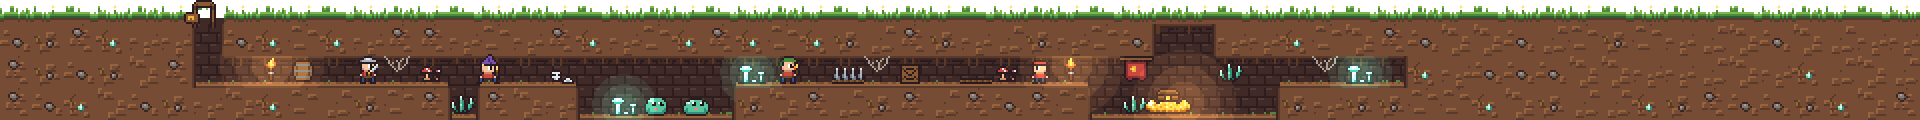
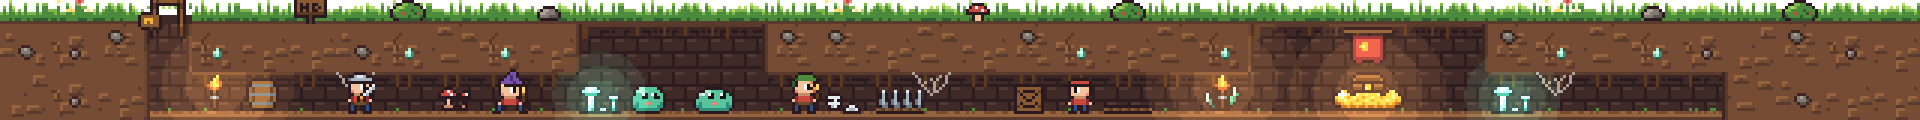
Daan: Het Hol kunst v3 op schaal 3 (strook 120 px = maaiveld 8 + twee rijen), maaiveldversiering, vergelijkingsbeeld met Rusty's Retirement
Claude-Session: https://claude.ai/code/session_01RMWUyjkHpK4foYx2s2kMsm

diff --git a/ontwerp/steam/kunst-bron/maak_kunst.py b/ontwerp/steam/kunst-bron/maak_kunst.py
@@ -1,6 +1,6 @@
 # Daan: tekent de pixelkunst van Het Hol in code (geen beeldgenerator).
 # Uitvoer: producten/steam-hol/godot/kunst/*.png en kunst.json, plus voorbeeldbeelden in ontwerp/steam/kunst-bron/.
-# Maat: spelpixels van 16 x 16 per cel, schaal 2 op 100% Windows (strook 120 px = 60 spelpixels).
+# Maat: cellen van 16 x 16 spelpixels, schaal 3 op 100% Windows (strook 120 px = 40 spelpixels: maaiveld 8 + twee rijen).
 import json, os, random
 from PIL import Image
 
@@ -63,7 +63,7 @@ def opslaan(im, naam):
     im.save(os.path.join(UIT, naam))
 
 CEL = 16
-OPP = 12   # hoogte van het maaiveld (gras) boven de eerste aardelaag
+OPP = 8    # hoogte van het maaiveld (gras) boven de eerste aardelaag
 
 # ---------- aarde en gangen (autotegel, 16 varianten op 4 buren) ----------
 def aarde_cel(rnd, im, ox, oy):
@@ -93,7 +93,7 @@ def aarde_cel(rnd, im, ox, oy):
         for xx, c in enumerate("jIIIIj"): im.putpixel((ox + x + xx, oy + y), P[c])
         for dx in (0, 5):
             im.putpixel((ox + x + dx, oy + y - 1), P["j"]); im.putpixel((ox + x + dx, oy + y + 1), P["I"])
-    elif k < 0.50:   # kristalletje
+    elif k < 0.47:   # kristalletje
         x, y = rnd.randint(3, 11), rnd.randint(3, 10)
         for yy, r in enumerate([".N.", "NqM", "nNM", ".m."]):
             for xx, c in enumerate(r):
@@ -148,26 +148,33 @@ def maak_tegels():
 
 # ---------- maaiveld ----------
 def maak_gras():
-    # 4 varianten van 16 x 12: lucht doorzichtig, grasrand, bovenste aarde
+    # 4 varianten van 16 x 12: lucht doorzichtig, dichte grasrand met sprieten, bovenste aarde
     im = Image.new("RGBA", (CEL * 4, OPP), (0, 0, 0, 0))
     for v in range(4):
         rnd = random.Random(200 + v); ox = v * CEL
         for x in range(CEL):
-            top = 6 + (1 if rnd.random() < 0.3 else 0)
+            top = 4
             for y in range(top, OPP):
                 c = "G" if y < top + 2 else ("g" if y < top + 3 else ("2" if y < top + 4 else "3"))
                 im.putpixel((ox + x, y), P[c])
-            im.putpixel((ox + x, top), P["h"])
-            if rnd.random() < 0.35:          # sprietjes
-                hgt = rnd.randint(1, 3)
-                for i in range(1, hgt + 1): im.putpixel((ox + x, top - i), P["G" if i < hgt else "h"])
-        if v in (1, 3):                       # bloempje
-            x = rnd.randint(3, 12)
-            im.putpixel((ox + x, 3), P["Y"]); im.putpixel((ox + x - 1, 3), P["*"]); im.putpixel((ox + x + 1, 3), P["*"])
-            im.putpixel((ox + x, 2), P["*"]); im.putpixel((ox + x, 4), P["*"])
-            for y in (5, 6): im.putpixel((ox + x, y), P["G"])
+            if rnd.random() < 0.5: im.putpixel((ox + x, top + 2), P["G"])
+            hgt = rnd.choice((1, 1, 2, 2, 3, 4))
+            for i in range(1, hgt + 1): im.putpixel((ox + x, top - i + 1), P["h" if i == hgt else "G"])
+            if rnd.random() < 0.3: im.putpixel((ox + x, top - hgt), P["H"])
     opslaan(im, "gras.png")
     return im
+
+BOVEN = {   # versiering op het maaiveld, 16 x 12, onderkant op de grasrand (y 8)
+    "bloemen": ["................", "...*......p.....", "..*Y*....pRp....", "...*......p.....", "...G...Y..G..*..", "...G..YxY.G.*Y*.", "..hG...G..G..G..", "..GG...G.GG..G..", "................", "................", "................", "................"],
+    "struik": ["................", "................", "......kkkk......", "....kkhhGGkk....", "...khHhGGGGGk...", "..khhGGGGgGGGk..", "..kGGGRGGGgRGk..", "..kgGGGGgGGGgk..", "...kkgggggggk...", "................", "................", "................"],
+    "steen": ["................"]*4 + [".....kkkk.......", "....k9988k......", "...k998887k.....", "...k888777k.....", "....kkkkkk......", "................", "................", "................"],
+    "bordje": ["................", "..kkkkkkkkkkk...", "..kUUUUUUUUUk...", "..kUkUkUkkUUk...", "..kUkkkUkUkUk...", "..kUkUkUkkUUk...", "..kuuuuuuuuuk...", "..kkkkkukkkkk...", "......kuk.......", "......kuk.......", "................", "................"],
+    "paddo": ["................"]*3 + ["....kkkk........", "...kRjRRk.......", "..kRRRRjRk......", "..kkkkkkkk......", "....kssk........", "....kssk........", "................", "................", "................"],
+}
+def maak_boven():
+    # 16 x 8: de grasrand valt op rij 5 en 6, net als in gras.png
+    frames = [sprite(BOVEN[n][2:10]) for n in BOVEN]
+    opslaan(strip(frames), "maaiveld.png"); return dict(zip(BOVEN, frames))
 
 # ---------- ingang: houten poortje met bordje ----------
 INGANG = [
@@ -361,13 +368,13 @@ def maak_gloed(r=26):
 tegels = maak_tegels(); gras = maak_gras(); fakkel = maak_fakkel(); schat = maak_schat()
 slijm = maak_slijm(); val = maak_val(); lijven, hoeden, wapens = maak_held()
 ingang = sprite(INGANG); opslaan(ingang, "ingang.png")
-deco = maak_deco(); gloed = maak_gloed()
+deco = maak_deco(); gloed = maak_gloed(); boven = maak_boven()
 
 json.dump({
-    "spelpixel": "1 spelpixel = 2 schermpixels bij 100% Windows, 3 bij 150%, 4 bij 200% (altijd hele schaal, filter nearest)",
+    "spelpixel": "schaal 3 bij strook 120 tot 160 px (100% Windows), schaal 2 onder 120 px; bij 150% en 200% Windows schaal 4 en 6. Altijd hele schaal, filter nearest. Strook 120 px = 40 spelpixels = maaiveld 8 + 2 rijen cellen; extra hoogte toont meer aarde eronder", "maaiveld.png": {"frame": [16, 8], "volgorde": ["bloemen", "struik", "steen", "bordje", "paddo"]},
     "cel": 16, "maaiveld_hoogte": OPP,
     "tegels.png": {"rij0": "aarde, 8 varianten (kies willekeurig per cel, vast zaad)", "rij1": "gang, 16 varianten, index = n*1 + e*2 + s*4 + w*8 waarbij een bit 1 is als die buur AARDE is"},
-    "gras.png": {"frame": [16, 12], "varianten": 4, "plek": "boven de bovenste aardelaag"},
+    "gras.png": {"frame": [16, 8], "varianten": 4, "plek": "boven de bovenste aardelaag"},
     "ingang.png": {"frame": [20, 14], "anker": "onderkant op de grasrand, poortje boven de ingang-cel"},
     "fakkel.png": {"frame": [8, 12], "frames": 4, "fps": 6, "plek": "aan de wand van een gang, alleen bij de ingang en de schatkamer"},
     "schat.png": {"frame": [24, 16], "frames": 4, "fps": 4, "anker": "midden onder"},
@@ -378,83 +385,74 @@ json.dump({
     "held_wapens.png": {"frame": [16, 16], "volgorde": ["zwaard", "staf", "fakkel"], "tekenen": "zwaard en fakkel boven het lijf, staf achter het lijf; 1 px omlaag bij frames 1 en 3"},
 }, open(os.path.join(UIT, "kunst.json"), "w"), ensure_ascii=False, indent=1)
 
-# ---------- voorbeeld: een stuk hol op ware maat (schaal 2, strook 120 px) ----------
-def voorbeeld(breedte_cellen=60, schaal=2, naam="voorbeeld-strook.png"):
+# ---------- voorbeeld: een stuk hol op ware maat (schaal 3, strook 120 px) ----------
+def voorbeeld(breedte_cellen=40, schaal=3, naam="voorbeeld-strook.png"):
     rnd = random.Random(7)
-    H = OPP + 3 * CEL   # 60 spelpixels
+    RIJ = 2
+    H = OPP + RIJ * CEL   # 40 spelpixels
     W = breedte_cellen * CEL
     im = Image.new("RGBA", (W, H), (0, 0, 0, 0))
-    # raster: rij 0..2; True = gang
-    gang = [[False] * breedte_cellen for _ in range(3)]
-    ing = 6
+    gang = [[False] * breedte_cellen for _ in range(RIJ)]
+    ing = 3
     gang[0][ing] = True
-    for x in range(ing, 40): gang[1][x] = True
-    for x in range(18, 23): gang[2][x] = True   # kamer van de slijm (2 hoog)
-    gang[2][14] = True
-    for x in range(34, 40): gang[2][x] = True   # schatkamer
-    gang[0][36] = True; gang[0][37] = True
-    for x in range(40, 44): gang[1][x] = True    # wordt gegraven
-    # gras
+    for x in range(ing, 33): gang[1][x] = True              # hoofdgang
+    for x in range(12, 16): gang[0][x] = True               # kamer van de slijmen (2 hoog)
+    for x in range(26, 31): gang[0][x] = True               # schatkamer (2 hoog)
+    for x in range(33, 36): gang[1][x] = True               # wordt gegraven
     for cx in range(breedte_cellen):
         g = gras.crop(((cx % 4) * CEL, 0, (cx % 4) * CEL + CEL, OPP)); im.paste(g, (cx * CEL, 0), g)
     def is_g(r, c):
-        return 0 <= r < 3 and 0 <= c < breedte_cellen and gang[r][c]
-    for r in range(3):
+        return 0 <= r < RIJ and 0 <= c < breedte_cellen and gang[r][c]
+    for r in range(RIJ):
         for c in range(breedte_cellen):
             x, y = c * CEL, OPP + r * CEL
             if gang[r][c]:
                 n = not is_g(r - 1, c) and not (r == 0 and c == ing)
-                e = not is_g(r, c + 1); s = not is_g(r + 1, c); w = not is_g(r, c - 1)
-                m = int(n) | int(e) << 1 | int(s) << 2 | int(w) << 3
+                e = not is_g(r, c + 1); s_ = not is_g(r + 1, c) or r == RIJ - 1; w = not is_g(r, c - 1)
+                m = int(n) | int(e) << 1 | int(s_) << 2 | int(w) << 3
                 t = tegels.crop((m * CEL, CEL, m * CEL + CEL, 2 * CEL))
             else:
                 v = rnd.randint(0, 7); t = tegels.crop((v * CEL, 0, v * CEL + CEL, CEL))
             im.paste(t, (x, y))
-    # gras ingang weg (gat), poortje
     for xx in range(ing * CEL, ing * CEL + CEL):
-        for yy in range(5, OPP): im.putpixel((xx, yy), P["W"] if yy > 8 else (0, 0, 0, 0))
-    im.paste(ingang, (ing * CEL - 4, OPP - 14 + 2), ingang)
+        for yy in range(3, OPP): im.putpixel((xx, yy), P["W"] if yy > 4 else (0, 0, 0, 0))
+    im.paste(ingang, (ing * CEL - 2, OPP - 14 + 4), ingang)
     def zet(sp, x, y): im.paste(sp, (int(x), int(y)), sp)
-    vloer1 = OPP + 2 * CEL - 3   # onderkant van rij 1, op de vloer
-    vloer2 = OPP + 3 * CEL - 3
-    # versiering op de vloer en aan het plafond
-    plaf1 = OPP + CEL
-    for cx, n in ((9, "ton"), (13, "paddenstoel"), (17, "schedel"), (23, "lichtzwam"), (28, "kist"), (31, "paddenstoel"), (38, "kristal"), (42, "lichtzwam")):
-        zet(deco[n], cx * CEL, vloer1 - 16 + 1)
-    for cx, n in ((19, "lichtzwam"), (35, "kristal"), (14, "kristal")):
-        zet(deco[n], cx * CEL, vloer2 - 16 + 1)
-    for cx in (12, 27, 41): zet(deco["spinrag"], cx * CEL, plaf1)
-    zet(deco["vaandel"], 35 * CEL, OPP + CEL)
-    zet(fakkel[1], 8 * CEL + 4, OPP + CEL + 1)
-    zet(fakkel[2], 33 * CEL + 4, OPP + CEL + 1)
-    zet(schat[0], 36 * CEL - 4, vloer2 - 16 + 1)
-    zet(slijm[0], 20 * CEL, vloer2 - 16 + 1)
-    zet(slijm[1], 21 * CEL + 4, vloer2 - 16 + 1)
-    zet(val[2], 26 * CEL, vloer1 - 8 + 1)
-    zet(val[0], 30 * CEL, vloer1 - 8 + 1)
-    zet(held(lijven, hoeden, wapens, 0, 0, 0), 11 * CEL, vloer1 - 16 + 1)
-    zet(held(lijven, hoeden, wapens, 1, 1, 1), 15 * CEL - 4, vloer1 - 16 + 1)
-    zet(held(lijven, hoeden, wapens, 2, 2, 2), 24 * CEL + 2, vloer1 - 16 + 1)
-    h4 = held(lijven, hoeden, wapens, 3, 3, None).transpose(Image.FLIP_LEFT_RIGHT); zet(h4, 32 * CEL, vloer1 - 16 + 1)
-    # licht erbovenop (optellen)
+    for cx, n in ((1, "bloemen"), (6, "bordje"), (8, "struik"), (11, "steen"), (17, "bloemen"), (20, "paddo"), (23, "struik"), (32, "bloemen"), (34, "steen"), (37, "struik")):
+        zet(boven[n], cx * CEL, 0)
+    vloer = OPP + 2 * CEL - 3
+    plaf = OPP + CEL
+    for cx, n in ((5, "ton"), (9, "paddenstoel"), (12, "lichtzwam"), (17, "schedel"), (21, "kist"), (25, "kristal"), (31, "lichtzwam")):
+        zet(deco[n], cx * CEL, vloer - 16 + 1)
+    for cx in (7, 19, 32): zet(deco["spinrag"], cx * CEL, plaf)
+    zet(deco["vaandel"], 28 * CEL, OPP + 1)
+    zet(fakkel[1], 4 * CEL + 4, plaf + 1)
+    zet(fakkel[2], 25 * CEL + 4, plaf + 1)
+    zet(schat[0], 28 * CEL - 4, vloer - 16 + 1)
+    zet(slijm[0], 13 * CEL, vloer - 16 + 1)
+    zet(slijm[1], 14 * CEL + 6, vloer - 16 + 1)
+    zet(val[2], 18 * CEL + 4, vloer - 8 + 1)
+    zet(val[0], 23 * CEL, vloer - 8 + 1)
+    zet(held(lijven, hoeden, wapens, 0, 0, 0), 7 * CEL, vloer - 16 + 1)
+    zet(held(lijven, hoeden, wapens, 1, 1, 1), 10 * CEL + 2, vloer - 16 + 1)
+    zet(held(lijven, hoeden, wapens, 2, 2, 2), 16 * CEL + 4, vloer - 16 + 1)
+    zet(held(lijven, hoeden, wapens, 3, 3, None).transpose(Image.FLIP_LEFT_RIGHT), 22 * CEL, vloer - 16 + 1)
     licht = Image.new("RGBA", im.size, (0, 0, 0, 0))
-    for (lx, ly) in ((8 * CEL + 8, OPP + CEL + 4), (33 * CEL + 8, OPP + CEL + 4), (37 * CEL, vloer2 - 6)):
+    for (lx, ly) in ((4 * CEL + 8, plaf + 4), (25 * CEL + 8, plaf + 4), (28 * CEL + 8, vloer - 6)):
         licht.alpha_composite(gloed, (lx - gloed.width // 2, ly - gloed.height // 2))
-    for (lx, ly) in ((23 * CEL + 8, vloer1 - 4), (42 * CEL + 8, vloer1 - 4), (19 * CEL + 8, vloer2 - 4)):
-        g2 = gloed.resize((32, 32), Image.NEAREST)
-        px = g2.load()
+    for (lx, ly) in ((12 * CEL + 8, vloer - 4), (31 * CEL + 8, vloer - 4)):
+        g2 = gloed.resize((32, 32), Image.NEAREST); px = g2.load()
         for yy in range(32):
             for xx in range(32):
-                r_, g_, b_, a_ = px[xx, yy]; px[xx, yy] = (110, 255, 200, a_)
+                a_ = px[xx, yy][3]; px[xx, yy] = (110, 255, 200, a_)
         licht.alpha_composite(g2, (lx - 16, ly - 16))
     import numpy as np
     a = np.asarray(im).astype(np.int32); l = np.asarray(licht).astype(np.int32)
     gm = np.zeros((H, W, 1), dtype=bool)
-    for r in range(3):
+    for r in range(RIJ):
         for c in range(breedte_cellen):
             if gang[r][c]: gm[OPP + r * CEL:OPP + (r + 1) * CEL, c * CEL:(c + 1) * CEL] = True
-    gang_masker = gm
-    a[..., :3] = np.clip(a[..., :3] + (l[..., :3] * l[..., 3:4]) // 255, 0, 255) * gang_masker + a[..., :3] * (~gang_masker)
+    a[..., :3] = np.where(gm, np.clip(a[..., :3] + (l[..., :3] * l[..., 3:4]) // 255, 0, 255), a[..., :3])
     im = Image.fromarray(a.astype(np.uint8), "RGBA")
     groot = im.resize((W * schaal, H * schaal), Image.NEAREST)
     groot.save(os.path.join(HIER, naam))
